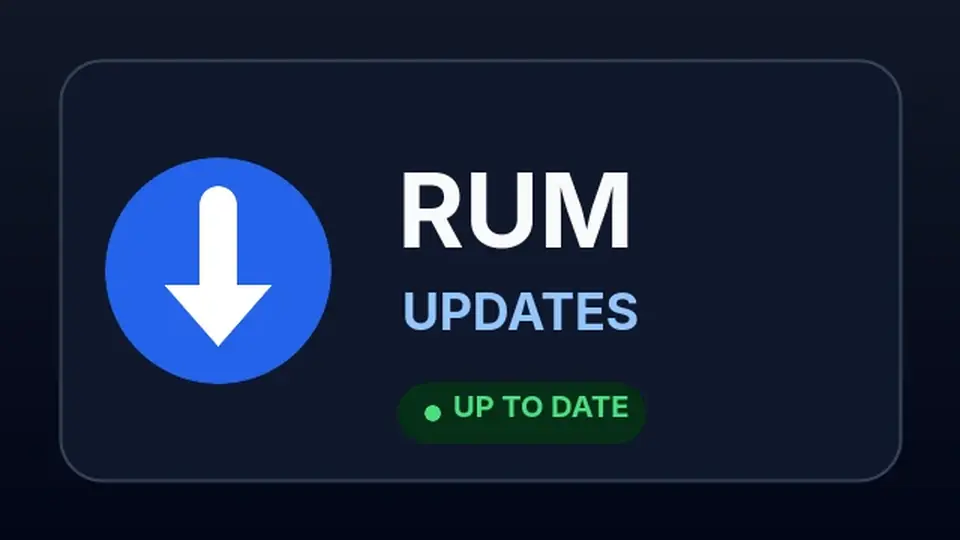
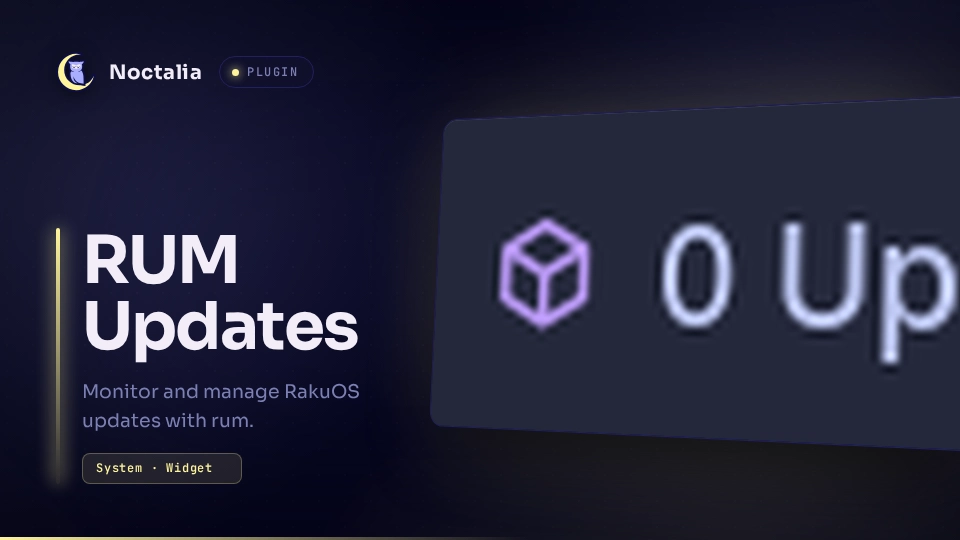
Regenerate thumbnail and address review feedback

diff --git a/README.md b/README.md
@@ -179,7 +179,11 @@ The Software Center action requires the optional `rakuos-software` application. 
 
 ### The count does not change immediately
 
-The service checks in the background. Wait for the configured refresh interval, or disable and re-enable the plugin to start a new check immediately.
+The service checks in the background. Wait for the configured refresh interval, or start an immediate check with:
+
+```sh
+noctalia msg plugin etrigan63/rum-updates:update_poller all refresh
+```
 
 ## Notes
 
@@ -218,4 +222,4 @@ rum-updates/
 
 ## License
 
-RUM Updates is available under the [MIT License](LICENSE).
+RUM Updates is licensed under the MIT License.

diff --git a/rum-updates/README.md b/rum-updates/README.md
@@ -179,7 +179,11 @@ The Software Center action requires the optional `rakuos-software` application. 
 
 ### The count does not change immediately
 
-The service checks in the background. Wait for the configured refresh interval, or disable and re-enable the plugin to start a new check immediately.
+The service checks in the background. Wait for the configured refresh interval, or start an immediate check with:
+
+```sh
+noctalia msg plugin etrigan63/rum-updates:update_poller all refresh
+```
 
 ## Notes
 
@@ -218,4 +222,4 @@ rum-updates/
 
 ## License
 
-RUM Updates is available under the [MIT License](LICENSE).
+RUM Updates is licensed under the MIT License.
